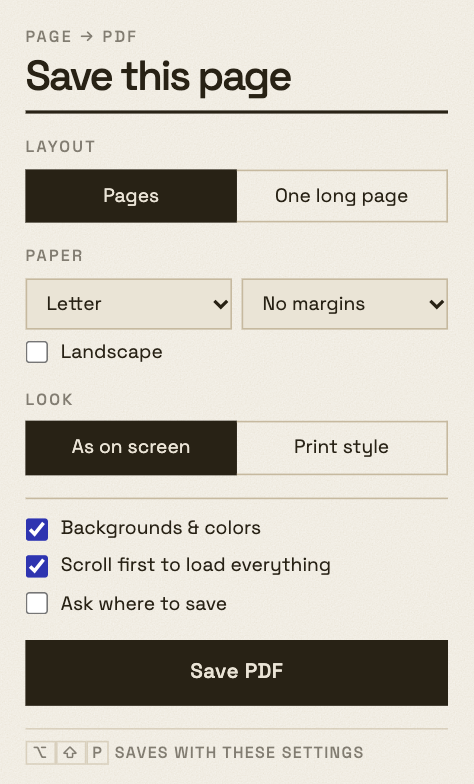
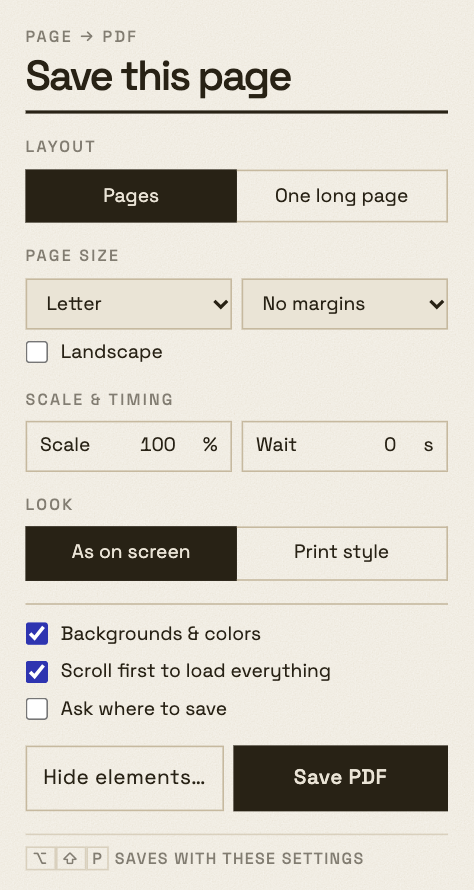
Store description and README for new features and automatic releases; re-render store images

diff --git a/README.md b/README.md
@@ -17,11 +17,15 @@ Chrome shows a "Page to PDF started debugging this browser" bar while it capture
 | Option | What it does |
 |---|---|
 | Pages / One long page | Normal paged PDF, or the whole page on one tall page with no breaks (sized to the page at your current window width) |
-| Paper, margins, landscape | Paged mode only. A site's own `@page` size wins if it sets one |
-| As on screen / Site's print style | Screen look, or whatever the site's print stylesheet does |
+| Page size | Letter, A4, Legal: a site's own `@page` size wins if it sets one. Slide 16:9, Slide 4:3, Window size, Custom: always used, even over the site's `@page` |
+| Margins, landscape | Paged mode only. Slides and window size already fix the orientation |
+| Scale | 10–200%. In one-long-page mode the 200in limit can shrink it further |
+| Wait | 0–30 seconds after scrolling, before measuring, so animations finish |
+| As on screen / Print style | Screen look, or whatever the site's print stylesheet does |
 | Backgrounds & colors | Print background colors and images |
 | Scroll first | Scrolls to the bottom and waits for images so lazy content is in the PDF, then scrolls you back |
 | Ask where to save | Save dialog instead of straight to Downloads |
+| Hide elements… | Outlines what's under the mouse; click to hide it. ↑/↓ picks the parent or goes back, Enter hides, Esc finishes. Hidden things stay hidden on the page until you reload, and are left out of every PDF until then |
 
 ## Tests
 
@@ -37,10 +41,26 @@ CFT_BIN="/path/to/Google Chrome for Testing" npm run e2e
 
 Loads the unpacked extension and saves real PDFs through the service worker. Needs Chrome for Testing, because branded Chrome ignores `--load-extension`. It is in `.cft/` (gitignored) if you've run it before.
 
+## Automatic releases
+
+Every push to `main` runs the tests on GitHub Actions. When `manifest.json` has a version with no `v<version>` tag yet, the workflow builds the zip, uploads it to the Web Store, submits it for review and tags the commit. Chrome then updates everyone's copy by itself once the review passes.
+
+To release: bump `version` in `manifest.json`, commit, push.
+
+The workflow needs these repository secrets (Settings → Secrets and variables → Actions). Until they're set it skips the publish step with a warning:
+
+| Secret | Where it comes from |
+|---|---|
+| `CWS_PUBLISHER_ID` | Web Store dashboard → Publisher → Settings |
+| `CWS_EXTENSION_ID` | The item's ID in the dashboard, after the first manual upload |
+| `CWS_CLIENT_ID`, `CWS_CLIENT_SECRET` | Google Cloud console: enable the Chrome Web Store API, create an OAuth client (type "Web application", redirect URI `https://developers.google.com/oauthplayground`) |
+| `CWS_REFRESH_TOKEN` | OAuth 2.0 Playground with your own client ID/secret, scope `https://www.googleapis.com/auth/chromewebstore` |
+
 ## Limits
 
 - Chrome won't let extensions touch `chrome://` pages, the Chrome Web Store, or a tab that already has DevTools open.
 - One long page measures the *document's* height. Apps that scroll inside a fixed-height box (Gmail, Figma, many editors) only capture the visible part.
 - In one-long-page mode, elements sized with `vh` are sized against the page height, so a full-screen hero can come out very tall.
 - Pages over 200in tall get scaled down to fit the 200in limit PDF viewers have, down to 10%. Past that they spill onto more pages.
-- No icons yet; Chrome shows the default letter icon.
+- Hide elements works only on the tab you open the popup on, and can't reach inside cross-origin iframes.
+- The picker's toolbar uses Space Grotesk only if the page already has it; otherwise it falls back to the system font.

diff --git a/STORE.md b/STORE.md
@@ -7,6 +7,8 @@ Files: `dist/page-to-pdf.zip` (run `npm run package` first), `icons/icon128.png`
 
 Dashboard → **New item** → upload `dist/page-to-pdf.zip`.
 
+This first upload is by hand: the API can update an item but can't create one. After this, GitHub publishes new versions (README, "Automatic releases").
+
 ## 2. Store listing tab
 
 **Description:**
@@ -14,8 +16,11 @@ Dashboard → **New item** → upload `dist/page-to-pdf.zip`.
 ```
 Save the page you're looking at as a PDF.
 
-- Pages: a normal PDF on Letter, A4 or Legal paper, with or without margins.
-- One long page: the whole page on one tall page, no page breaks.
+- Pages or one long page. Get a normal paged PDF, or the whole page on one tall page with no breaks.
+- Any page size. Letter, A4, Legal, 16:9 and 4:3 slides, the size of your window, or a size you type in.
+- Your own scale. Anywhere from 10% to 200%.
+- Wait for animations. Set a few seconds and the PDF is made after pages that animate in have finished. Good for presentations and slide sites.
+- Hide what you don't want. Click "Hide elements…", then click a banner, header, popup or anything else to leave it out of the PDF. Undo any time.
 - As on screen, or with the site's own print style.
 - Scrolls the page first so images that load late are in the PDF.
 - Text stays real text, so you can select and search it.
@@ -51,6 +56,14 @@ Save the current tab as a PDF file.
 - **storage**
   ```
   Remembers the user's settings (paper size, layout, look).
+  ```
+- **activeTab**
+  ```
+  Lets "Hide elements" add its picker to the tab the user is on, only after they click it.
+  ```
+- **scripting**
+  ```
+  Adds the "Hide elements" picker to the current tab. It outlines what's under the mouse and hides what the user clicks.
   ```
 - **offscreen**
   ```
